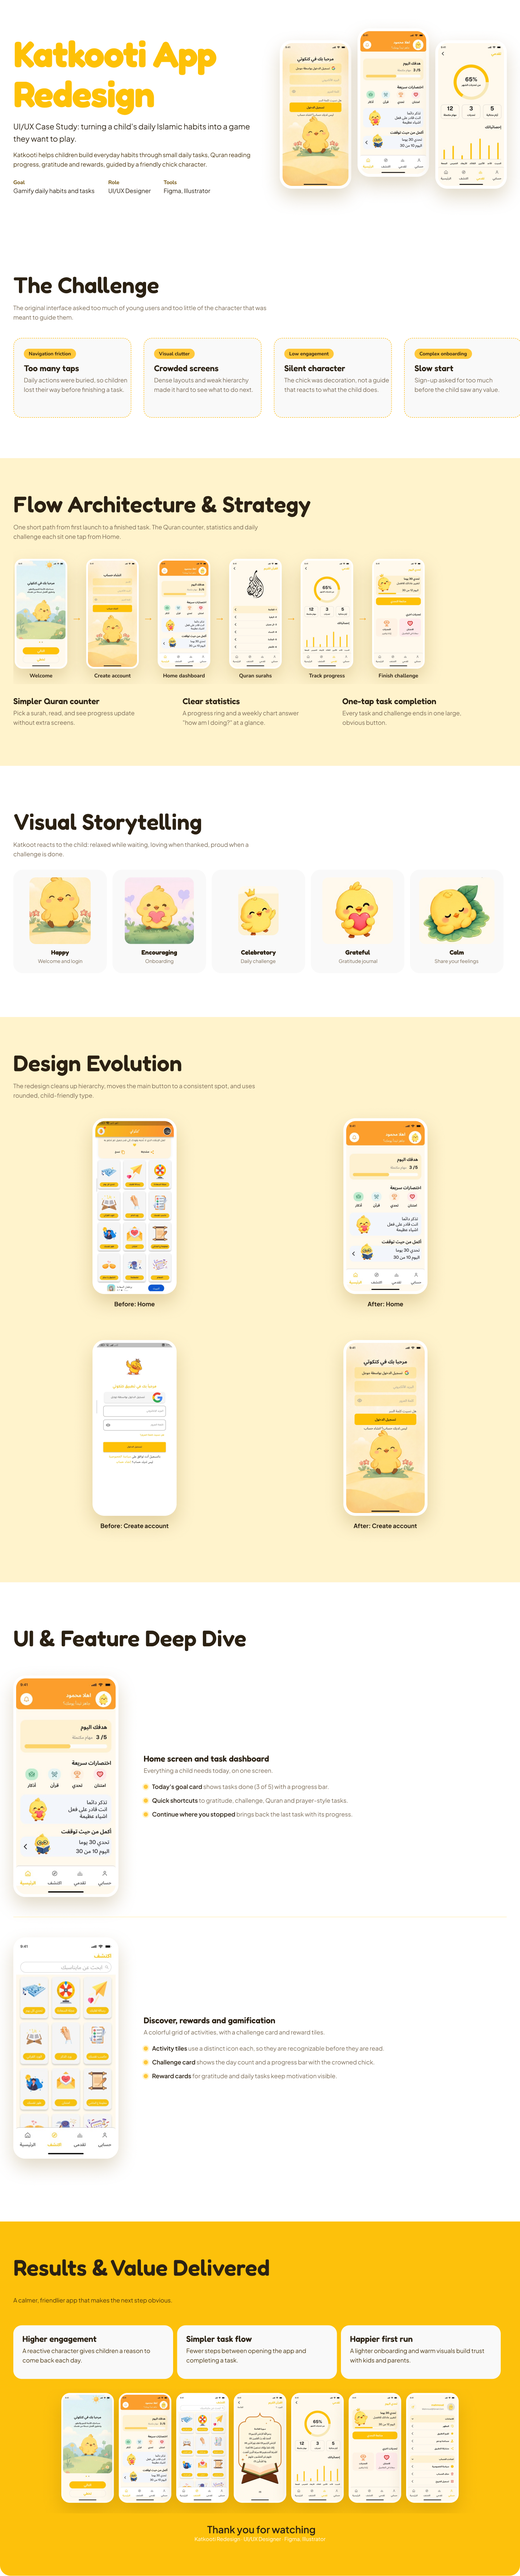
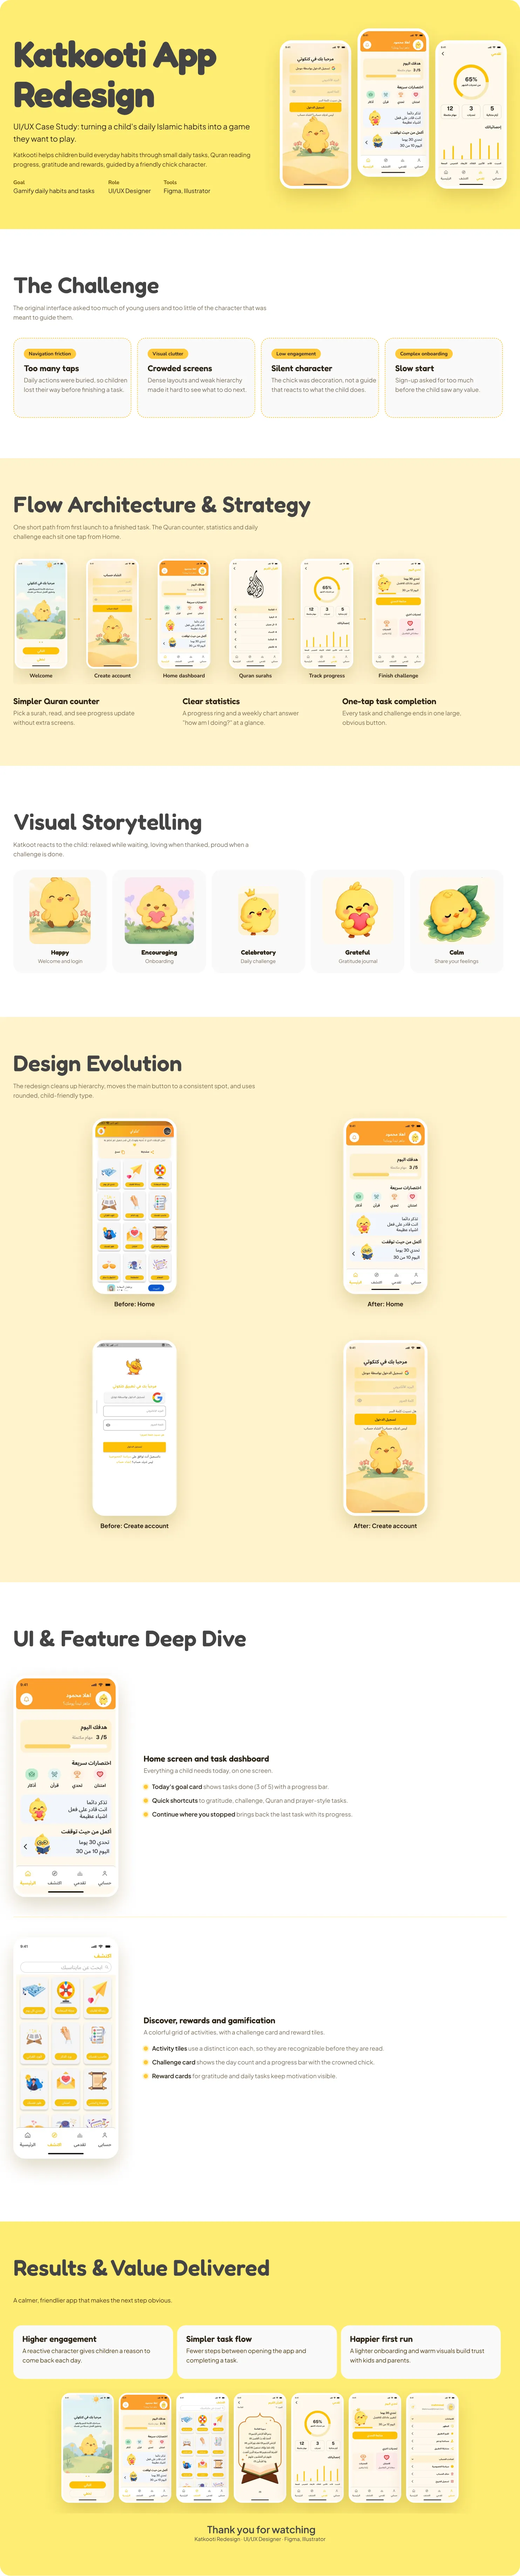
add music snake project

diff --git a/project.html b/project.html
@@ -216,42 +216,100 @@
 
     <!-- Case Study Data & Interactive Logic -->
     <script>
-        const UIUX_PROJECTS = {
-            "1": {
+        // Embedded fallback for local offline / file:// protocol execution
+        const FALLBACK_UIUX_PROJECTS = [
+            {
                 id: 1,
                 slug: "clothes",
                 title: "Website E-commerce Clothing",
                 subtitle: "A&M Modern Fashion E-Commerce Platform UI/UX Case Study",
-                arabicOverview: "نظرة عامة على المشروع: هي منصة أزياء إلكترونية حديثة تهدف إلى توفير تجربة تسوق سهلة وسريعة وممتعة للملابس للرجال والنساء والأطفال، مع التركيز على تجربة مستخدم بصرية سهلة وموحدة وواضحة.",
+                overview: "نظرة عامة على المشروع: هي منصة أزياء إلكترونية حديثة تهدف إلى توفير تجربة تسوق سهلة وسريعة وممتعة للملابس للرجال والنساء والأطفال، مع التركيز على تجربة مستخدم بصرية سهلة وموحدة وواضحة.",
                 category: "Ui Ux Design",
                 platform: "Website",
                 role: "Ui Ux Designer",
                 tools: "Figma, Adobe Illustrator, Cairo Font",
-                coverImage: "imgs/projects/uiux/clothes/index.png",
+                image: "imgs/projects/uiux/clothes/index.png",
                 frameImage: "imgs/projects/uiux/clothes/frame.webp",
-                likes: 142,
-                otherProjectId: 2
+                likes: 142
             },
-            "2": {
+            {
                 id: 2,
                 slug: "katkoty",
                 title: "Katkooti App Redesign",
                 subtitle: "Gamified Islamic Habits & Daily Tasks for Children",
-                arabicOverview: "UI/UX Case Study: turning a child's daily Islamic habits into a game they want to play. Katkooti helps children build everyday habits through small daily tasks, Quran reading progress, gratitude and rewards, guided by a friendly chick character.",
+                overview: "UI/UX Case Study: turning a child's daily Islamic habits into a game they want to play. Katkooti helps children build everyday habits through small daily tasks, Quran reading progress, gratitude and rewards, guided by a friendly chick character.",
                 category: "Ui Ux Design",
                 platform: "Mobile App",
                 role: "Ui Ux Designer",
                 tools: "Figma, Adobe Illustrator, Gamification UI",
-                coverImage: "imgs/projects/uiux/katkoty/index.png",
-                frameImage: "imgs/projects/uiux/katkoty/frame.svg",
-                likes: 186,
-                otherProjectId: 1
+                image: "imgs/projects/uiux/katkoty/index.png",
+                frameImage: "imgs/projects/uiux/katkoty/frame.webp",
+                likes: 186
+            },
+            {
+                id: 3,
+                slug: "music",
+                title: "Snake - Music Streaming App",
+                subtitle: "Next-Gen Music Streaming & Personalized Audio Experience",
+                overview: "UI/UX Case Study: Snake is a next-gen music streaming app designed to deliver immersive listening experiences with a sleek, intuitive and emotion-driven interface. To create a seamless music experience that allows users to discover, play and personalize music effortlessly.",
+                category: "Ui Ux Design",
+                platform: "Mobile App",
+                role: "Ui Ux Designer",
+                tools: "Figma, Adobe Illustrator, Inter Font",
+                image: "imgs/projects/uiux/music/index.webp",
+                frameImage: "imgs/projects/uiux/music/frame.webp",
+                likes: 165
             }
-        };
+        ];
 
-        // Aliases
-        UIUX_PROJECTS["clothes"] = UIUX_PROJECTS["1"];
-        UIUX_PROJECTS["katkoty"] = UIUX_PROJECTS["2"];
+        let uiuxProjectsList = FALLBACK_UIUX_PROJECTS;
+        let uiuxProjectsMap = {};
+
+        function rebuildMap(list) {
+            uiuxProjectsMap = {};
+            list.forEach((p, idx) => {
+                const item = { ...p };
+                if (Array.isArray(item.tools)) item.tools = item.tools.join(', ');
+                uiuxProjectsMap[String(item.id)] = item;
+                if (item.slug) uiuxProjectsMap[item.slug] = item;
+                
+                // Automatic cyclic next project link
+                const next = list[(idx + 1) % list.length];
+                item.nextProjectId = next ? next.id : null;
+            });
+            // Aliases
+            if (uiuxProjectsMap["music"]) {
+                uiuxProjectsMap["snake"] = uiuxProjectsMap["music"];
+            }
+        }
+        rebuildMap(uiuxProjectsList);
+
+        async function fetchUiUxProjects() {
+            try {
+                // Try fetching dedicated uiux.json first
+                let res = await fetch('uiux.json');
+                if (res.ok) {
+                    const data = await res.json();
+                    if (Array.isArray(data) && data.length > 0) {
+                        uiuxProjectsList = data;
+                        rebuildMap(uiuxProjectsList);
+                        return;
+                    }
+                }
+                // Fallback to projects.json
+                res = await fetch('projects.json');
+                if (res.ok) {
+                    const data = await res.json();
+                    const filtered = data.filter(p => p.type === 'ui-ux');
+                    if (filtered.length > 0) {
+                        uiuxProjectsList = filtered;
+                        rebuildMap(uiuxProjectsList);
+                    }
+                }
+            } catch (err) {
+                console.info('Loaded UI/UX projects from fallback cache:', err);
+            }
+        }
 
         // Determine current project
         function getProjectIdFromUrl() {
@@ -262,7 +320,7 @@
             const hash = window.location.hash.replace('#', '').trim();
             if (hash) return hash;
 
-            return "1"; // Default to clothes
+            return "1"; // Default to first project
         }
 
         let currentProject = null;
@@ -270,8 +328,10 @@
 
         function loadProject() {
             const rawId = getProjectIdFromUrl();
-            currentProject = UIUX_PROJECTS[rawId] || UIUX_PROJECTS["1"];
-            const otherProject = UIUX_PROJECTS[currentProject.otherProjectId];
+            currentProject = uiuxProjectsMap[rawId] || uiuxProjectsList[0];
+            if (!currentProject) return;
+
+            const otherProject = currentProject.nextProjectId ? uiuxProjectsMap[String(currentProject.nextProjectId)] : null;
 
             // Update document title
             document.title = `${currentProject.title} - Behance UI/UX Case Study | Mahmoud Mosad`;
@@ -290,7 +350,7 @@
             const heroTitle = document.getElementById('hero-project-title');
             if (heroTitle) heroTitle.textContent = currentProject.title;
             const heroSub = document.getElementById('hero-project-subtitle');
-            if (heroSub) heroSub.textContent = currentProject.arabicOverview;
+            if (heroSub) heroSub.textContent = currentProject.arabicOverview || currentProject.overview;
             const heroRole = document.getElementById('hero-role');
             if (heroRole) heroRole.textContent = currentProject.role;
             const heroPlatform = document.getElementById('hero-platform');
@@ -407,8 +467,9 @@
             });
         }
 
-        window.addEventListener('DOMContentLoaded', () => {
+        window.addEventListener('DOMContentLoaded', async () => {
             initMobileDrawer();
+            await fetchUiUxProjects();
             loadProject();
         });
         window.addEventListener('hashchange', loadProject);

diff --git a/app.js b/app.js
@@ -94,6 +94,21 @@ const FALLBACK_PROJECTS = [
     "tools": ["Figma", "Adobe Illustrator", "Gamification UI"]
   },
   {
+    "id": 3,
+    "title": "Snake - Music Streaming App",
+    "slug": "music",
+    "type": "ui-ux",
+    "category": "Ui Ux Design",
+    "platform": "Mobile App",
+    "role": "Ui Ux Designer",
+    "image": "imgs/projects/uiux/music/index.webp",
+    "frameImage": "imgs/projects/uiux/music/frame.webp",
+    "link": "project.html?id=3",
+    "icon": "https://c.animaapp.com/faqgcqcH/img/akar-icons-arrow-up-right-8.svg",
+    "overview": "Snake is a next-gen music streaming app designed to deliver immersive listening experiences with a sleek, intuitive and emotion-driven interface.",
+    "tools": ["Figma", "Adobe Illustrator", "Inter Font", "Mobile UI"]
+  },
+  {
     "id": 13,
     "title": "Logo Design & Brand Identity",
     "type": "graphic",
@@ -506,16 +521,24 @@ async function loadData() {
   let experiences = FALLBACK_EXPERIENCES;
 
   try {
-    const [projRes, expRes] = await Promise.all([
-      fetch('projects.json'),
-      fetch('experience.json')
+    const [projRes, expRes, uiuxRes] = await Promise.all([
+      fetch('projects.json').catch(() => null),
+      fetch('experience.json').catch(() => null),
+      fetch('uiux.json').catch(() => null)
     ]);
 
-    if (projRes.ok) {
+    if (projRes && projRes.ok) {
       projects = await projRes.json();
     }
-    if (expRes.ok) {
+    if (expRes && expRes.ok) {
       experiences = await expRes.json();
+    }
+    if (uiuxRes && uiuxRes.ok) {
+      const uiuxData = await uiuxRes.json();
+      if (Array.isArray(uiuxData) && uiuxData.length > 0) {
+        const nonUiUx = projects.filter(p => p.type !== 'ui-ux');
+        projects = [...uiuxData, ...nonUiUx];
+      }
     }
   } catch (err) {
     console.info('Loaded data from fallback cache (file protocol or fetch unavailable):', err);

diff --git a/project-music.html b/project-music.html
@@ -1,0 +1,14 @@
+<!DOCTYPE html>
+<html lang="en">
+<head>
+    <meta charset="utf-8">
+    <meta http-equiv="refresh" content="0; url=project.html?id=3#music">
+    <title>Snake Music Streaming App - UI/UX Case Study</title>
+    <script>
+        window.location.replace("project.html?id=3#music");
+    </script>
+</head>
+<body style="background:#0d0d0d; color:#fff; font-family:sans-serif; text-align:center; padding-top:20%;">
+    <p>Loading project... <a href="project.html?id=3#music" style="color:#ffffff;">Click here if not redirected</a></p>
+</body>
+</html>
